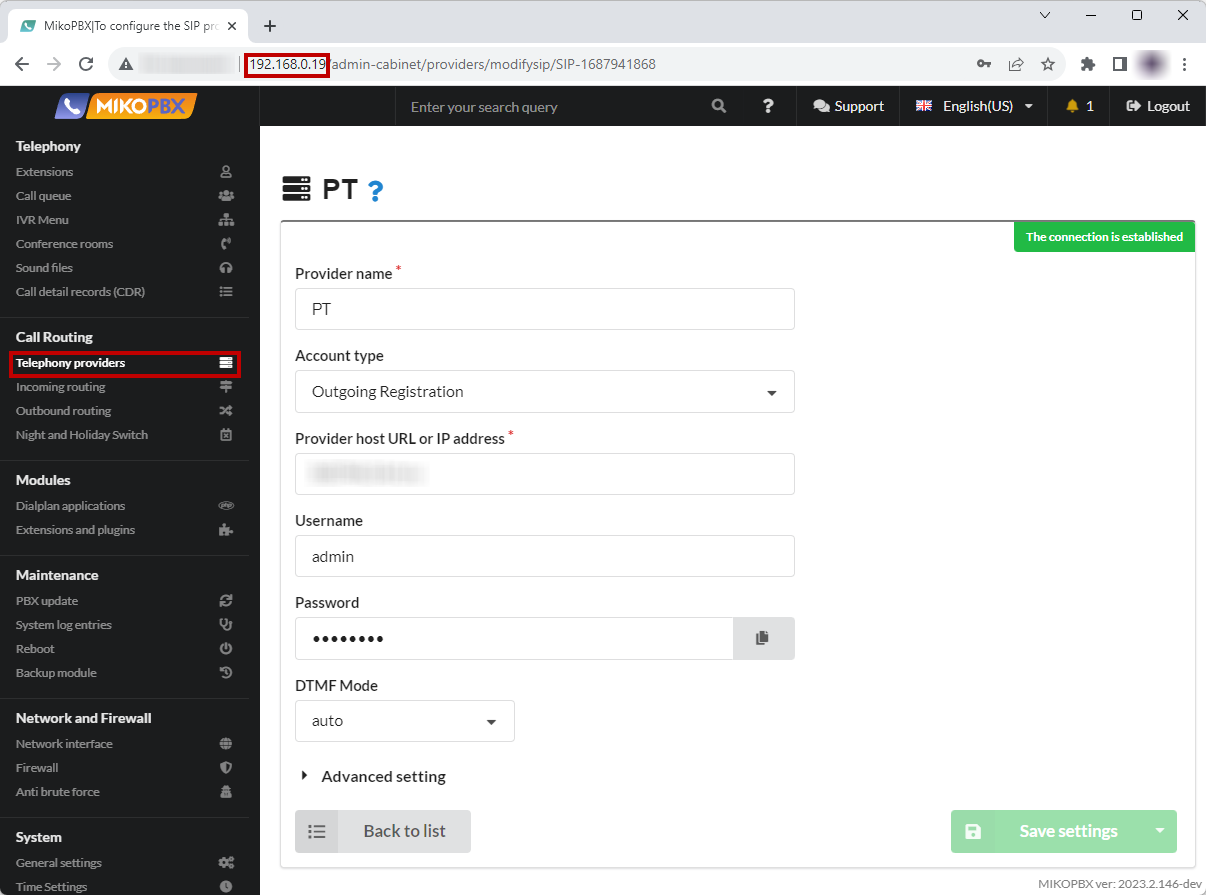
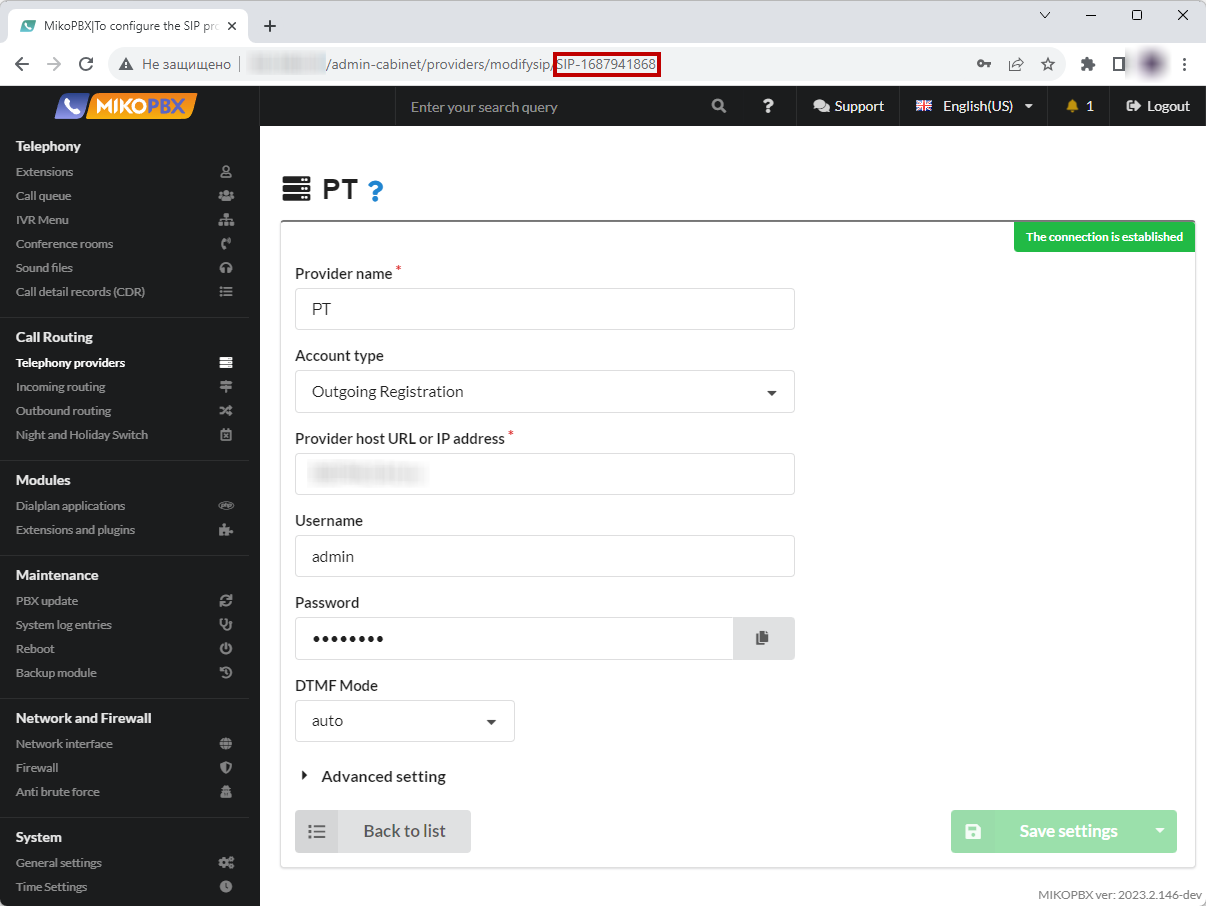
GITBOOK-189: change request with no subject merged in GitBook

diff --git a/faq/outbound-routing/making-calls-through-a-specific-provider.md b/faq/outbound-routing/making-calls-through-a-specific-provider.md
@@ -1,0 +1,152 @@
+# Making Calls Through a Specific Provider
+
+### Problem Statement <a href="#problem_statement" id="problem_statement"></a>
+
+In MikoPBX (_**Telephony → Employees**_), the following employee accounts are configured:
+
+<figure><img src="../../.gitbook/assets/extensions.png" alt=""><figcaption><p>Section "Extensions"</p></figcaption></figure>
+
+In MikoPBX, there are **two providers** configured (_**Routing → Telephony Providers**_):
+
+<figure><img src="../../.gitbook/assets/providers.png" alt=""><figcaption></figcaption></figure>
+
+The requirement is that:
+
+1. The phone connected to account **201** should only make calls through the **first provider** **PT**.
+2. The phone connected to account **202** should only make calls through the **second provider** **Zadarma(Novofon)**.
+
+Outbound calls to the external world (to a city) through both providers are implemented using the **same outgoing rule**: it's a ten-digit number starting with 7. This task can be schematically represented as follows:
+
+<figure><img src="../../.gitbook/assets/file.excalidraw (1).svg" alt=""><figcaption><p>The scheme of the task</p></figcaption></figure>
+
+### Solution <a href="#solution" id="solution"></a>
+
+Routing calls through a specific provider can be achieved using **outbound dial plan prefixes**.
+
+* Calls will always go through the **first provider** if you add **1** before the outgoing number. Therefore, if the subscriber with **201** wants to dial outgoing numbers with the **1 prefix**, the calls will go through the first provider.
+* Calls will always go through the **second provider** if you add **2** before the outgoing number. Therefore, if the subscriber with **202** wants to dial outgoing numbers with the **2 prefix**, the calls will go through the second provider.
+
+You can schematically represent this as follows:
+
+<img src="../../.gitbook/assets/file.excalidraw (2).svg" alt="The scheme of solving the problem" class="gitbook-drawing">
+
+You can implement this task in two ways in MikoPBX:
+
+1. Subscribers 201 and 202 will always add specific prefixes before dialing on their phones. For example, if they want to call the number 74952293042, they will add the prefix 1 or 2 before this number, such as 174952293042 or 274952293042.
+2. Subscribers 201 and 202 **do not dial** special prefixes; the PBX itself performs this action for them.
+
+#### First Method <a href="#first_method" id="first_method"></a>
+
+The first method of implementing our task assumes that subscribers 201 and 202 will independently dial the corresponding prefixes on their phones. Subscriber 201 will always add 1 before the number, and subscriber 202 will add 2.
+
+1. For the **first** provider, create an outbound rule. Go to **Routing** → **Outbound Routes**. Add a new rule.
+
+<figure><img src="../../.gitbook/assets/newRule (1).png" alt=""><figcaption><p>Creating a new rule</p></figcaption></figure>
+
+2. Fill in the parameters as shown in the screenshot below:
+
+<figure><img src="../../.gitbook/assets/firstProvider.png" alt=""><figcaption><p>Routing parameters for the first provider</p></figcaption></figure>
+
+3\. For the **second** Zadarma provider, we create an outgoing rule. Go to the **Routing** → **Outgoing routes** section. Adding a new rule as in the screenshot below:
+
+<figure><img src="../../.gitbook/assets/secondProvider.png" alt=""><figcaption><p>Routing parameters for the second provider</p></figcaption></figure>
+
+#### Second Method
+
+The second method of implementing our task assumes that subscribers 201 and 202 **do not dial** specific prefixes on their phones; the PBX does this for them.
+
+1. Add **outbound rules** for the first and second Zadarma providers, as described in the [first method](making-calls-through-a-specific-provider.md#first\_method). The settings are identical.
+2. In the **Routing** → **Telephony Providers** section, add a third provider account.
+
+<figure><img src="../../.gitbook/assets/newProvider.png" alt=""><figcaption><p>New Provider</p></figcaption></figure>
+
+3. Fill in the parameters as shown in the screenshots below:
+
+<figure><img src="../../.gitbook/assets/settingsOfProvider1.png" alt=""><figcaption></figcaption></figure>
+
+<figure><img src="../../.gitbook/assets/settingsOfProvider2.png" alt=""><figcaption><p>Router Parameters</p></figcaption></figure>
+
+4. Save the account and copy the ID of this provider in the address bar.
+
+<figure><img src="../../.gitbook/assets/ProviderID.png" alt=""><figcaption><p>ProviderID</p></figcaption></figure>
+
+5. Add an **outgoing rule** for the created provider. By default, we will direct all calls through this provider, so be careful when creating an outgoing template. Calls through our providers can be made to numbers starting with 7, so our template takes the form:
+
+<figure><img src="../../.gitbook/assets/templateForRouter.png" alt=""><figcaption><p>Routing Parameters for Router</p></figcaption></figure>
+
+6. Please note that the priority of the outgoing rule for the Router provider should be **lower** than all!
+
+<figure><img src="../../.gitbook/assets/priorityInOutboundRouting.png" alt=""><figcaption><p>Priority in outbound routing</p></figcaption></figure>
+
+7. Go to **System** -> **System file customization** section
+
+<figure><img src="../../.gitbook/assets/SystemFileCustomization.png" alt=""><figcaption><p>"System file customization" section</p></figcaption></figure>
+
+8. Open the **extensions.conf** configuration file for editing.
+
+<figure><img src="../../.gitbook/assets/EditExtensions.conf.png" alt=""><figcaption><p>"extensions.conf" file</p></figcaption></figure>
+
+9. Select the "**Add to end of file**" mode. In the editing window, insert the following lines:
+
+```php
+[globals](+)
+MIKO_PREFIX_NUMBER_201=1; Prefix for internal number 201
+MIKO_PREFIX_NUMBER_202=2; Prefix for internal number 202
+
+[SIP-1690973516-outgoing-custom]
+exten => _.!,1,ExecIf($[ "${PREFIX_NUMBER}x" != "x" ]?return)
+    same => n,ExecIf($[ "${MIKO_PREFIX_NUMBER}x" == "x" ]?Set(MIKO_PREFIX_NUMBER=${MIKO_PREFIX_NUMBER_${CHANNEL(peername)}}))
+    same => n,Set(PREFIX_NUMBER=${MIKO_PREFIX_NUMBER})
+    same => n,ExecIf($[ "${MIKO_PREFIX_NUMBER}x" != "x" ]?Goto(outgoing,${MIKO_PREFIX_NUMBER}${EXTEN},4))
+    same => n,return
+    
+[all_peers-custom]
+include
+
+ => internal-custom
+
+[internal-custom]
+exten => _.!,1,NoOp(Start custom context)
+    same => n,ExecIf($[ "${MIKO_PREFIX_NUMBER}x" == "x" ]?Set(MIKO_PREFIX_NUMBER=${MIKO_PREFIX_NUMBER_${FROM_PEER}}))
+    same => n,Return()
+```
+
+In the code snippet above, you need to create the correct context name.\
+The format of the created context:
+
+```
+[PROVIDER-ID-outgoing-custom]
+```
+
+**PROVIDER-ID** - the value you saved in the third step described in this method. In our example, it's **SIP-1690973516**.
+
+<figure><img src="../../.gitbook/assets/codeForExtensionsCOnf.png" alt=""><figcaption><p>Code for extensions.conf</p></figcaption></figure>
+
+**Save** the changes and return to the list of configuration files.
+
+This way, for the 201 and 202 accounts, we have set prefixes. All outgoing calls will now go through the required provider.
+
+#### Default Route <a href="#default_route" id="default_route"></a>
+
+In some cases, when defining incoming routes, you may need to redirect a call not to an internal number but to an employee's mobile number. In this case, you need to describe the "Default Prefix," otherwise, there may be problems with handling such calls. &#x20;
+
+When routing by DID number:
+
+```php
+[public-direct-dial-custom]
+exten => _.!,1,NoOp(Start custom context)
+    same => n,Set(__MIKO_PREFIX_NUMBER=2)
+    same => n,Return()
+```
+
+For **each** provider, you should also describe the context:
+
+```php
+[PROVIDER-ID-incoming]
+exten => _.!,1,NoOp(Start custom context)
+    same => n,Set(__MIKO_PREFIX_NUMBER=2)
+    same => n,Return() 
+```
+
+With these configurations, you have completed the setup.
+

diff --git a/SUMMARY.md b/SUMMARY.md
@@ -91,6 +91,7 @@
   * [Number Template](faq/outbound-routing/number-template/README.md)
     * [Uniform distribution of outgoing](faq/outbound-routing/number-template/uniform-distribution-of-outgoing.md)
     * [Sample template: calls to another country](faq/outbound-routing/number-template/sample-template-calls-to-another-country.md)
+  * [Making Calls Through a Specific Provider](faq/outbound-routing/making-calls-through-a-specific-provider.md)
 * [Scenarios and cases](faq/cases/README.md)
   * [Generate extensions by REST API](faq/cases/extensions-generation-by-rest-api.md)
   * [Customer's assessment of the quality of service](faq/cases/customers-assessment-of-the-quality-of-service.md)

diff --git a/faq/outbound-routing/prohibiting-calls-via-a-backup-route.md b/faq/outbound-routing/prohibiting-calls-via-a-backup-route.md
@@ -10,7 +10,7 @@ At the moment, this can only be done through the customization of the PBX.
 
 1. Go to the provider's settings and copy its ID in the browser's address bar:
 
-<figure><img src="../../.gitbook/assets/ProviderID.png" alt=""><figcaption><p>Provider ID</p></figcaption></figure>
+<figure><img src="../../.gitbook/assets/ProviderID (1).png" alt=""><figcaption><p>Provider ID</p></figcaption></figure>
 
 2. Go to the section "**System file customization**"
 
